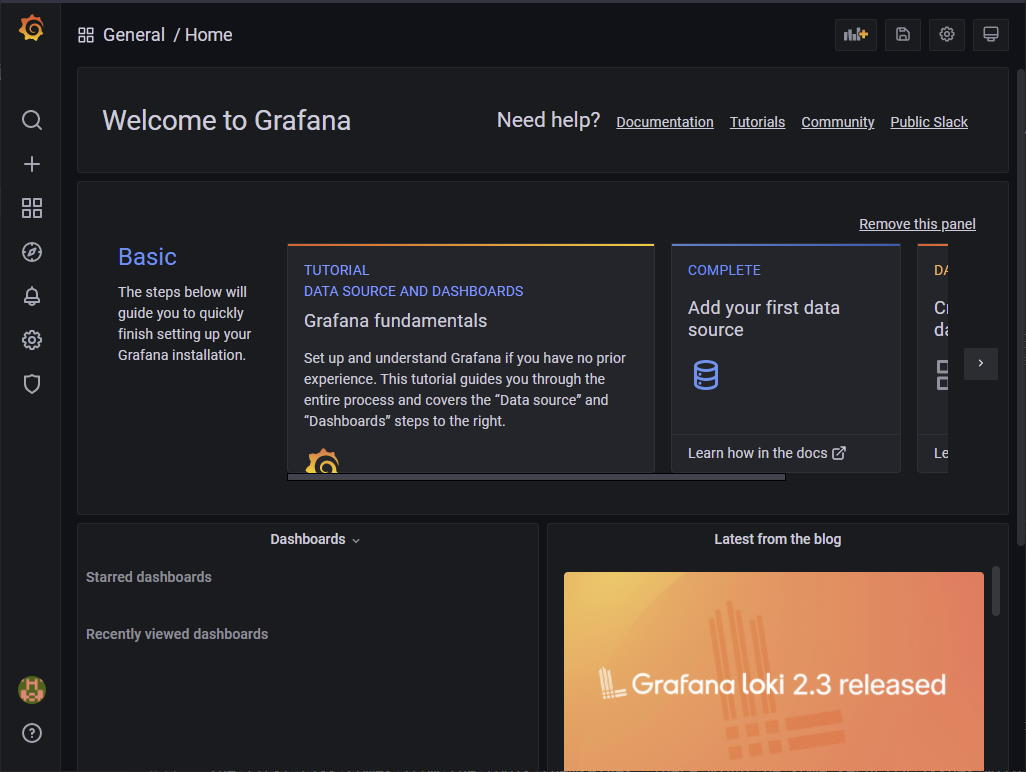
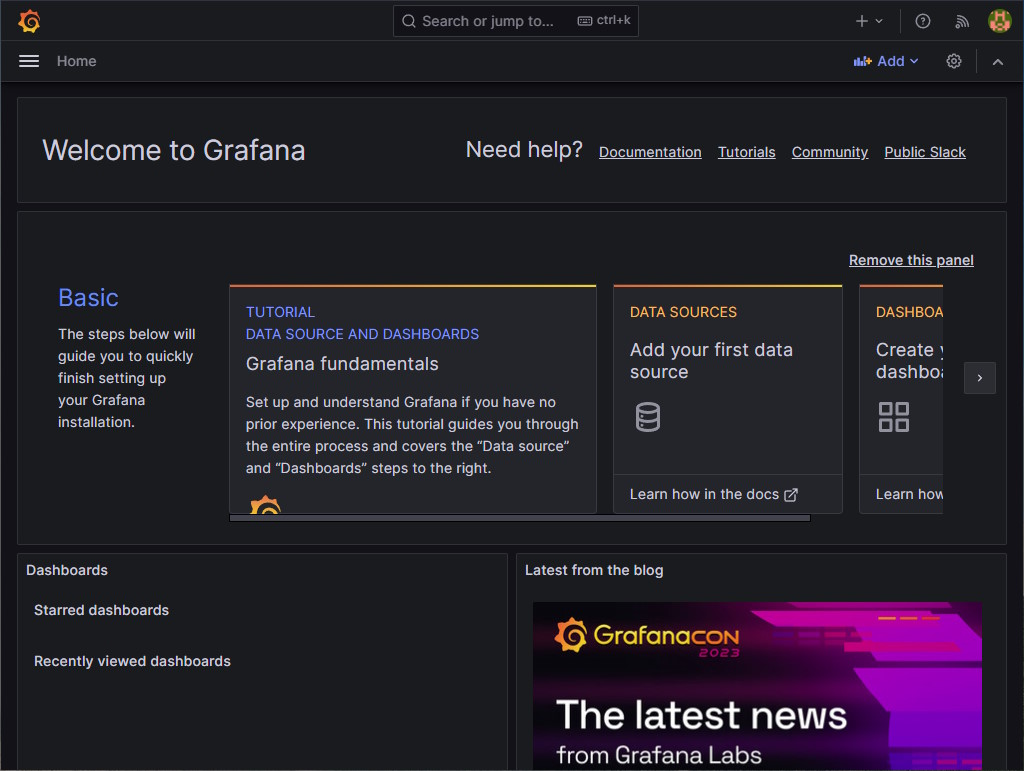
Update app version and tweaks for new versions

diff --git a/monitoring.md b/monitoring.md
@@ -40,36 +40,36 @@ Create a user account for the service to run under. This account will not be abl
 $ sudo useradd --no-create-home --shell /bin/false node_exporter
 ```
 
-Download the latest stable version of Node Exporter from https://prometheus.io/download/#node_exporter (avoid any pre-release version). As of this date, the latest stable release version is 1.3.1 . Adjust the following instructions accordingly if there is a newer stable release version with a different archive name. The file name should end with *linux-amd64.tar.gz* (for linux and AMD64 instructions set).
+Download the latest stable version of Node Exporter from https://prometheus.io/download/#node_exporter (avoid any pre-release version). As of this date, the latest stable release version is 1.6.0 . Adjust the following instructions accordingly if there is a newer stable release version with a different archive name. The file name should end with *linux-amd64.tar.gz* (for linux and AMD64 instructions set).
 
 ```console
-$ wget https://github.com/prometheus/node_exporter/releases/download/v1.3.1/node_exporter-1.3.1.linux-amd64.tar.gz
+$ wget https://github.com/prometheus/node_exporter/releases/download/v1.6.0/node_exporter-1.6.0.linux-amd64.tar.gz
 ```
 
 Verify that the SHA256 Checksum as shown on https://prometheus.io/download/#node_exporter is the same as the file we just downloaded.
 
 ```console
-$ sha256sum node_exporter-1.3.1.linux-amd64.tar.gz
+$ sha256sum node_exporter-1.6.0.linux-amd64.tar.gz
 ```
 
 Extract the archive.
 
 ```console
-$ tar xvf node_exporter-1.3.1.linux-amd64.tar.gz
+$ tar xvf node_exporter-1.6.0.linux-amd64.tar.gz
 ```
 
 Copy the binary to the following location and set ownership.
 
 ```console
-$ sudo cp node_exporter-1.3.1.linux-amd64/node_exporter /usr/local/bin
+$ sudo cp node_exporter-1.6.0.linux-amd64/node_exporter /usr/local/bin
 $ sudo chown -R node_exporter:node_exporter /usr/local/bin/node_exporter
 ```
 
 Remove the download leftovers.
 
 ```console
-$ rm -rf node_exporter-1.3.1.linux-amd64
-$ rm node_exporter-1.3.1.linux-amd64.tar.gz
+$ rm -rf node_exporter-1.6.0.linux-amd64
+$ rm node_exporter-1.6.0.linux-amd64.tar.gz
 ```
 
 Create a systemd service file to store the service config which tells systemd to run Node Exporter as the node_exporter user.
@@ -158,29 +158,29 @@ $ sudo chown -R prometheus:prometheus /etc/prometheus
 $ sudo chown -R prometheus:prometheus /var/lib/prometheus
 ```
 
-Download the latest stable version of Prometheus from https://prometheus.io/download/#prometheus (avoid any pre-release version). As of this date, the latest stable release version is 2.38.0 . Adjust the following instructions accordingly if there is a newer stable release version with a different archive name. The file name should end with *linux-amd64.tar.gz* (for linux and AMD64 instructions set).
+Download the latest stable version of Prometheus from https://prometheus.io/download/#prometheus (avoid any pre-release version). As of this date, the latest stable release version is 2.44.0 . Adjust the following instructions accordingly if there is a newer stable release version with a different archive name. The file name should end with *linux-amd64.tar.gz* (for linux and AMD64 instructions set).
 
 ```console
-$ wget https://github.com/prometheus/prometheus/releases/download/v2.38.0/prometheus-2.38.0.linux-amd64.tar.gz
+$ wget https://github.com/prometheus/prometheus/releases/download/v2.44.0/prometheus-2.44.0.linux-amd64.tar.gz
 ```
 
 Verify that the SHA256 Checksum as shown on https://prometheus.io/download/#prometheus is the same as the file we just downloaded.
 
 ```console
-$ sha256sum prometheus-2.38.0.linux-amd64.tar.gz
+$ sha256sum prometheus-2.44.0.linux-amd64.tar.gz
 ```
 
 Extract the archive.
 
 ```console
-$ tar xvf prometheus-2.38.0.linux-amd64.tar.gz
+$ tar xvf prometheus-2.44.0.linux-amd64.tar.gz
 ```
 
 Copy the binaries to the following locations and set ownership.
 
 ```console
-$ sudo cp prometheus-2.38.0.linux-amd64/prometheus /usr/local/bin/
-$ sudo cp prometheus-2.38.0.linux-amd64/promtool /usr/local/bin/
+$ sudo cp prometheus-2.44.0.linux-amd64/prometheus /usr/local/bin/
+$ sudo cp prometheus-2.44.0.linux-amd64/promtool /usr/local/bin/
 $ sudo chown -R prometheus:prometheus /usr/local/bin/prometheus
 $ sudo chown -R prometheus:prometheus /usr/local/bin/promtool
 ```
@@ -188,8 +188,8 @@ $ sudo chown -R prometheus:prometheus /usr/local/bin/promtool
 Copy the content files to the following locations and set ownership.
 
 ```console
-$ sudo cp -r prometheus-2.38.0.linux-amd64/consoles /etc/prometheus
-$ sudo cp -r prometheus-2.38.0.linux-amd64/console_libraries /etc/prometheus
+$ sudo cp -r prometheus-2.44.0.linux-amd64/consoles /etc/prometheus
+$ sudo cp -r prometheus-2.44.0.linux-amd64/console_libraries /etc/prometheus
 $ sudo chown -R prometheus:prometheus /etc/prometheus/consoles
 $ sudo chown -R prometheus:prometheus /etc/prometheus/console_libraries
 ```
@@ -197,8 +197,8 @@ $ sudo chown -R prometheus:prometheus /etc/prometheus/console_libraries
 Remove the download leftovers.
 
 ```console
-$ rm -rf prometheus-2.38.0.linux-amd64
-$ rm prometheus-2.38.0.linux-amd64.tar.gz
+$ rm -rf prometheus-2.44.0.linux-amd64
+$ rm prometheus-2.44.0.linux-amd64.tar.gz
 ```
 
 Setup the Prometheus configuration file. Open the YAML config file for editing.
@@ -248,7 +248,7 @@ $ sudo -u prometheus /usr/local/bin/prometheus \
     --web.console.libraries=/etc/prometheus/console_libraries \
     --web.listen-address="localhost:9090"
 ```
-Output should look something like this. Press Ctrl + C to exit.
+Output should look something like this. Press `Ctrl` + `C` to exit.
 
 ```
 level=info ts=2021-08-04T16:18:42.042Z caller=main.go:981 msg="Loading configuration file" filename=/etc/prometheus/prometheus.yml
@@ -349,7 +349,7 @@ Import the Grafana PGP key.
 $ sudo wget -q -O /usr/share/keyrings/grafana.key https://apt.grafana.com/gpg.key
 ```
 
-Add the Grafana OSS APT repository for stable releases.
+Add the Grafana APT repository for stable releases.
 
 ```console
 $ echo "deb [signed-by=/usr/share/keyrings/grafana.key] https://apt.grafana.com stable main" | sudo tee -a /etc/apt/sources.list.d/grafana.list
@@ -450,13 +450,13 @@ After your first log in, you will be asked to change the password for the admin 
 
 ### Adding the Prometheus data source
 
-Grafana has the ability to connect to multiple data sources. We have to add our Prometheus data source before we can use it. In the left column menu, hover on the *Configuration* menu (it looks like a cog) and click on the *Data sources* element. Click on the *Add data source* button. Select the *Prometheus* data source type. In the URL field, enter `http://localhost:9090`. Click the *Save and test* button at the bottom of the page. If everything is working, you should see a *Data source is working* message.
+Grafana has the ability to connect to multiple data sources. We have to add our Prometheus data source before we can use it. In the top left part of the page, click on the hamburger button (☰). Navigate in *Connections* > *Data sources*. Click on the *Add data source* button. Select the *Prometheus* data source type. In the URL field, enter `http://localhost:9090`. Click the *Save and test* button at the bottom of the page. If everything is working, you should see a *Data source is working* message.
 
 ![Grafana - Adding Prometheus data source](images/grafana-prom-datasource.png)
 
 ### Node Exporter dashboard
 
-A default installation does not include any dashboard. Let's add one for the hardware and OS metrics we are getting from Node Exporter. In the left column menu, hover on the *Create* menu (it looks like a plus sign) and click on the *Import* element. In the *Import via grafana.com* field, type `1860` and click on the *Load* button. On this next screen, make sure to select the Prometheus datasource from the dropdown list named *Prometheus*. Click on the *Import* button at the bottom.
+A default installation does not include any dashboard. Let's add one for the hardware and OS metrics we are getting from Node Exporter. In the top left part of the page, click on the hamburger button (☰). Navigate in *Dashboards*. Click on the *New* dropdown button and click on *Import*. In the *Import via grafana.com* field, type `1860` and click on the *Load* button. On this next screen, make sure to select the Prometheus datasource from the dropdown list named *Prometheus*. Click on the *Import* button at the bottom.
 
 ![Grafana - Node Exporter dashboard - Import](images/grafana-ne-import.png)
 
@@ -468,7 +468,7 @@ When viewing a dashboard, you will notice a few things:
 
 * You can change everything in your dashboards. Panels can be moved, added, removed or changed to show what you prefer or to show it differently.
 * Information is shown for a specific period. In the Node Export dashboard, you will notice a *Last 24 hours* period is selected in a dropdown list in the top right corner. That is your current viewing period which can be changed to your preferences.
-* Information is automatically refreshed. In the Node Export dashboard, you will notice a *1m* delay is selected in a dropdown list in the top right corner. This is your current refreshing delay which can be changed to your preferences.
+* Information can automatically be refreshed. In the Node Export dashboard, you will notice a double circular arrows icon (🔄) with a dropdown button (˅) in the top right part of the page. Using that dropdown button, you can select an automatic refresh delay like *1m* for 1 minute.
 
 You can customize your experience in a lot of different ways. Check out [the Grafana documentation](https://grafana.com/docs/) to learn more about this.
 
